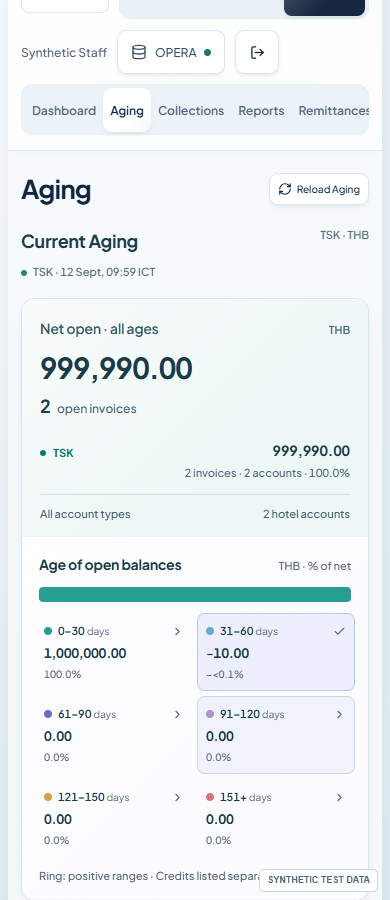
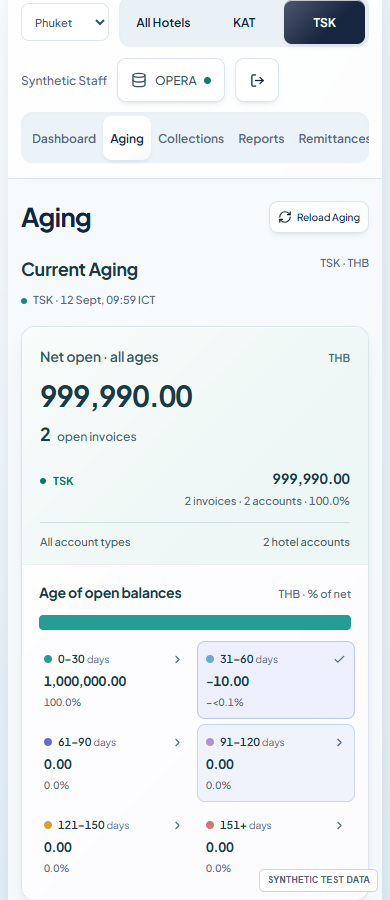
Remove visible Aging ring explanations

diff --git a/src/dashboard/AgingOverview.tsx b/src/dashboard/AgingOverview.tsx
@@ -38,7 +38,7 @@ export default function AgingOverview({region,data,columns,label,selectedKey,onS
   :mode==='zero'?'Verified net balances are zero.'
   :mode==='unavailable'?'Source verification required · only verified values are shown.'
   :!reconciles?'Range total differs from net open. Ring shows positive ranges.'
-  :'Ring: positive ranges · Credits listed separately.';
+  :'';
 
  return <section className="aging-v4-overview" aria-label="Current aging overview" data-chart-mode={mode}>
   <div className="aging-v4-balance">
@@ -68,7 +68,7 @@ export default function AgingOverview({region,data,columns,label,selectedKey,onS
        return percentage>0?<circle key={range.key} cx="90" cy="90" r="67" fill="none" stroke={range.color} strokeWidth={range.key===selectedKey?25:20} pathLength="100" strokeDasharray={`${percentage} ${100-percentage}`} strokeDashoffset={-previous} transform="rotate(-90 90 90)" className={range.key===selectedKey?'is-selected':''}/>:null;
       })}
      </svg>
-     <div className="aging-v4-ring-label" aria-hidden="true"><strong>{mode==='unavailable'?'—':mode==='zero'?'0.00':selectedValue!==null&&selectedValue<0?'Credit':selectedPercent===null?'All ages':share(selectedPercent)}</strong><span>{mode==='zero'?'Net balance is zero':selected?`${selected.bucket.label} days`:'of net open'}</span>{hasRing&&!distribution&&selectedValue!==null&&selectedValue>=0&&<small>of positive ranges</small>}</div>
+     <div className="aging-v4-ring-label" aria-hidden="true"><strong>{mode==='unavailable'?'—':mode==='zero'?'0.00':selectedValue!==null&&selectedValue<0?'Credit':selectedPercent===null?'All ages':share(selectedPercent)}</strong><span>{mode==='zero'?'Net balance is zero':selected?`${selected.bucket.label} days`:'of net open'}</span></div>
     </div>
     {hasRing&&<div className="aging-v4-mobile-track" aria-hidden="true">{ranges.map((range,index)=><span key={range.key} style={{width:`${ringValues[index]/ringTotal*100}%`,backgroundColor:range.color}}/>)}</div>}
     <div className="aging-v4-ranges" aria-label="Select aging range">{ranges.map(range=>{
@@ -81,7 +81,7 @@ export default function AgingOverview({region,data,columns,label,selectedKey,onS
      </button>;
     })}</div>
    </div>
-   {(mode==='unavailable'||mode==='signed'||!reconciles)&&<p className="aging-v4-chart-note">{note}</p>}
+   {(mode==='unavailable'||!reconciles)&&<p className="aging-v4-chart-note">{note}</p>}
   </div>
  </section>;
 }

diff --git a/tests/browser/dashboard-table-sorting.spec.ts b/tests/browser/dashboard-table-sorting.spec.ts
@@ -47,7 +47,7 @@ for(const width of [1440,390])test('signed Aging retains the ring and marks cred
  await openDashboard(page,'/?dashboard=1&dashboardView=aging&hotel=TSK');
  const overview=page.getByRole('region',{name:'Current aging overview'});
  await expect(overview).toHaveAttribute('data-chart-mode','signed');await expect(overview.locator('.aging-v4-ring')).toHaveCount(1);
- await expect(overview).toContainText('−<0.1%');await expect(overview).toContainText('-10.00');await expect(overview).toContainText('Ring: positive ranges');await expect(overview.locator('.aging-v4-ring circle[stroke-dasharray]')).toHaveCount(1);
+ await expect(overview).toContainText('−<0.1%');await expect(overview).toContainText('-10.00');await expect(overview).not.toContainText('Ring: positive ranges');await expect(overview.locator('.aging-v4-ring-label')).not.toContainText('of positive ranges');await expect(overview.locator('.aging-v4-ring circle[stroke-dasharray]')).toHaveCount(1);
  await overview.getByRole('button',{name:'Compare 31–60 days',exact:true}).click();await expect(overview.getByRole('button',{name:'Compare 31–60 days',exact:true})).toHaveAttribute('aria-pressed','true');
  await expect(overview.locator('.aging-v4-ring-label')).toContainText('Credit');await overview.scrollIntoViewIfNeeded();await page.screenshot({path:`evidence/aging-signed-readable-${width}.png`});
  expect(await overview.evaluate(e=>e.scrollWidth<=e.clientWidth)).toBe(true);

diff --git a/docs/PROJECT_STATUS.md b/docs/PROJECT_STATUS.md
@@ -1,3 +1,7 @@
+## 30 September 2026 — Simplify Aging ring copy
+
+- Owner requested removal of the visible “Ring: positive ranges · Credits listed separately.” caption and “of positive ranges” inside the ring. Removed only those visible explanations; retained the accessible chart description, signed values, chart calculation, zero/unknown handling and source mismatch notices. Existing chart browser assertions updated to verify absence of both captions. Deployment verification is recorded in PR #102.
+
 ## 30 September 2026 — Sortable work tables and readable signed Aging
 
 - Implemented Collections invoice-header sorting for Invoice, Folio, Guest, Action date, Latest sent and Open amount. Natural number ordering and missing-last behavior keep selection by exact invoice ID; existing Account sorting, hotel scope, independent scrolling and document commands are unchanged.
